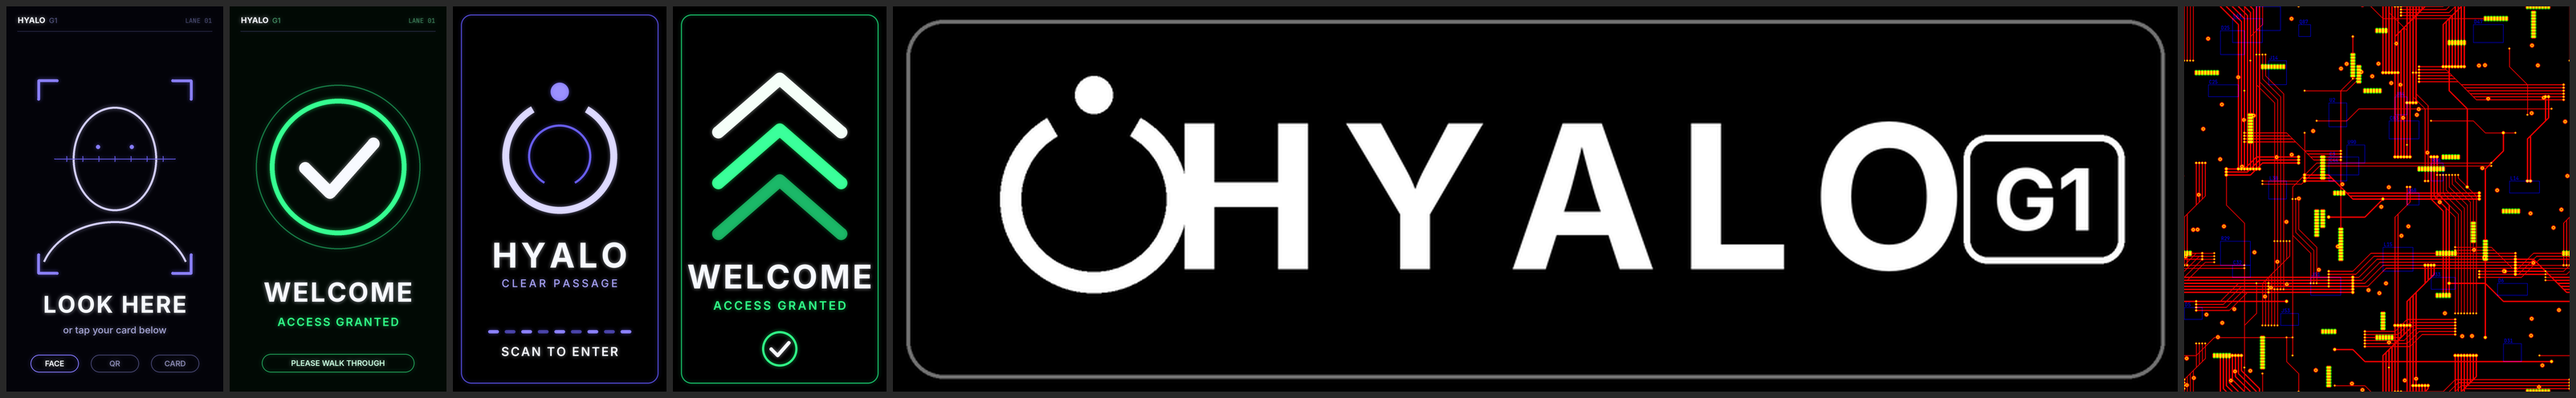
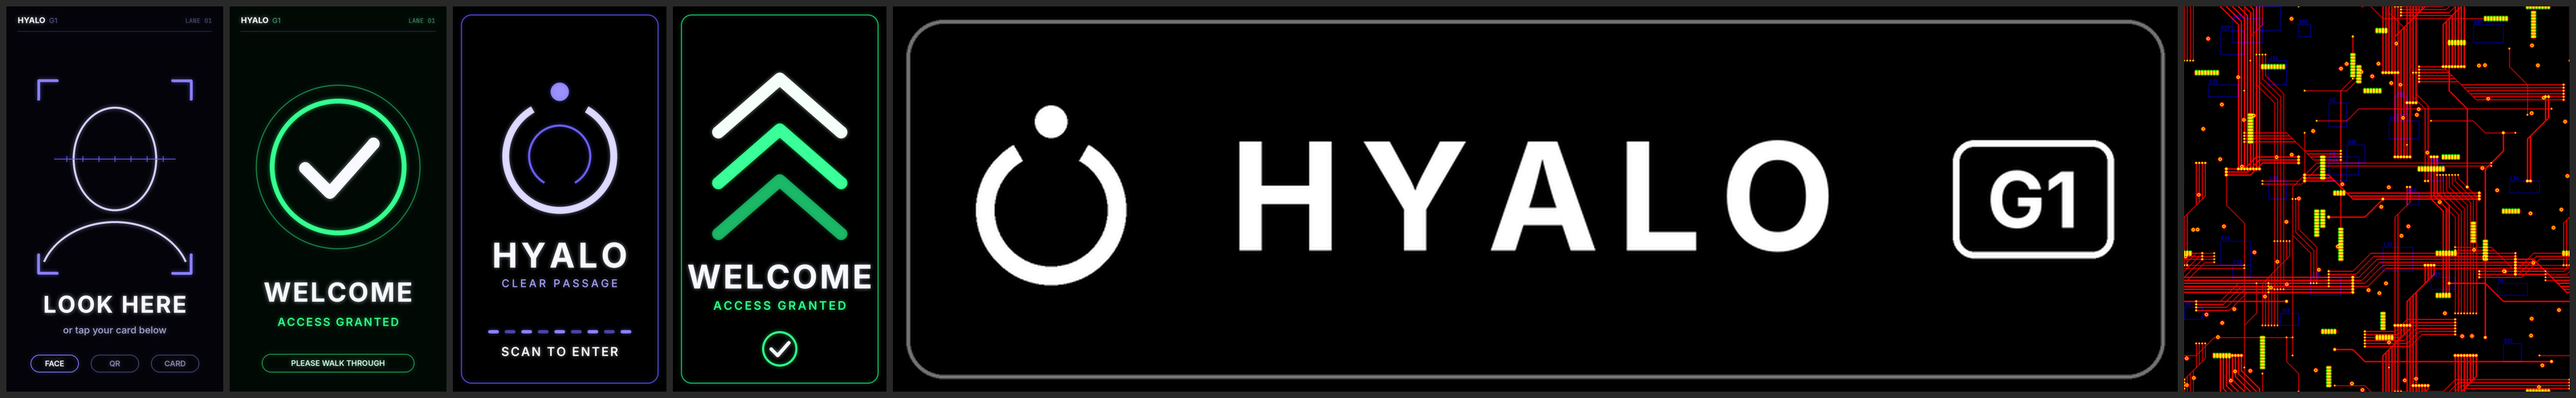
Glass gate video: helper work in progress (look tests, hardware detail)
Claude-Session: https://claude.ai/code/session_01GkVSwj9pNYJcxLvQTKJpn1

Changed region(s): [[0.3741, 0.1815, 0.8416, 0.756]]

diff --git a/glass-gate/look/make_textures.py b/glass-gate/look/make_textures.py
@@ -106,8 +106,6 @@ def lcd_idle():
     c.line([(cx - 150, cy - 20), (cx + 150, cy - 20)], (90, 80, 220), 2)
     for i in range(-3, 4):
         c.line([(cx + i * 40, cy - 26), (cx + i * 40, cy - 14)], (90, 80, 220), 2)
-    for dx in (-42, 42):
-        c.ellipse((cx + dx - 5, cy - 55, cx + dx + 5, cy - 45), fill=IDLE)
     c.text((cx, 742), 'LOOK HERE', 'bold', 58, WHITE, spacing=0.06)
     c.text((cx, 806), 'or tap your card below', 'med', 24, (150, 150, 200))
     # footer: three mode chips
@@ -180,12 +178,12 @@ def badge():
     c = Canvas(W, H)
     c.rrect((10, 10, W - 10, H - 10), 28, outline=(110, 110, 110), width=3)
     # ring mark
-    cx, cy, R = 150, H / 2, 70
-    c.arc((cx - R, cy - R, cx + R, cy + R), -60, 240, (255, 255, 255), 16)
-    c.ellipse((cx - 14, cy - R - 22, cx + 14, cy - R + 6), fill=(255, 255, 255))
-    c.text((505, H / 2 - 2), 'HYALO', 'bold', 150, (255, 255, 255), spacing=0.10)
-    c.rrect((800, 96, 920, 192), 18, outline=(255, 255, 255), width=5)
-    c.text((860, 144), 'G1', 'bold', 64, (255, 255, 255))
+    cx, cy, R = 118, H / 2 + 8, 56
+    c.arc((cx - R, cy - R, cx + R, cy + R), -60, 240, (255, 255, 255), 14)
+    c.ellipse((cx - 12, cy - R - 22, cx + 12, cy - R + 2), fill=(255, 255, 255))
+    c.text((478, H / 2 - 2), 'HYALO', 'bold', 112, (255, 255, 255), spacing=0.12)
+    c.rrect((792, 100, 912, 188), 16, outline=(255, 255, 255), width=5)
+    c.text((852, 144), 'G1', 'bold', 58, (255, 255, 255))
     return c.done()
 
 
